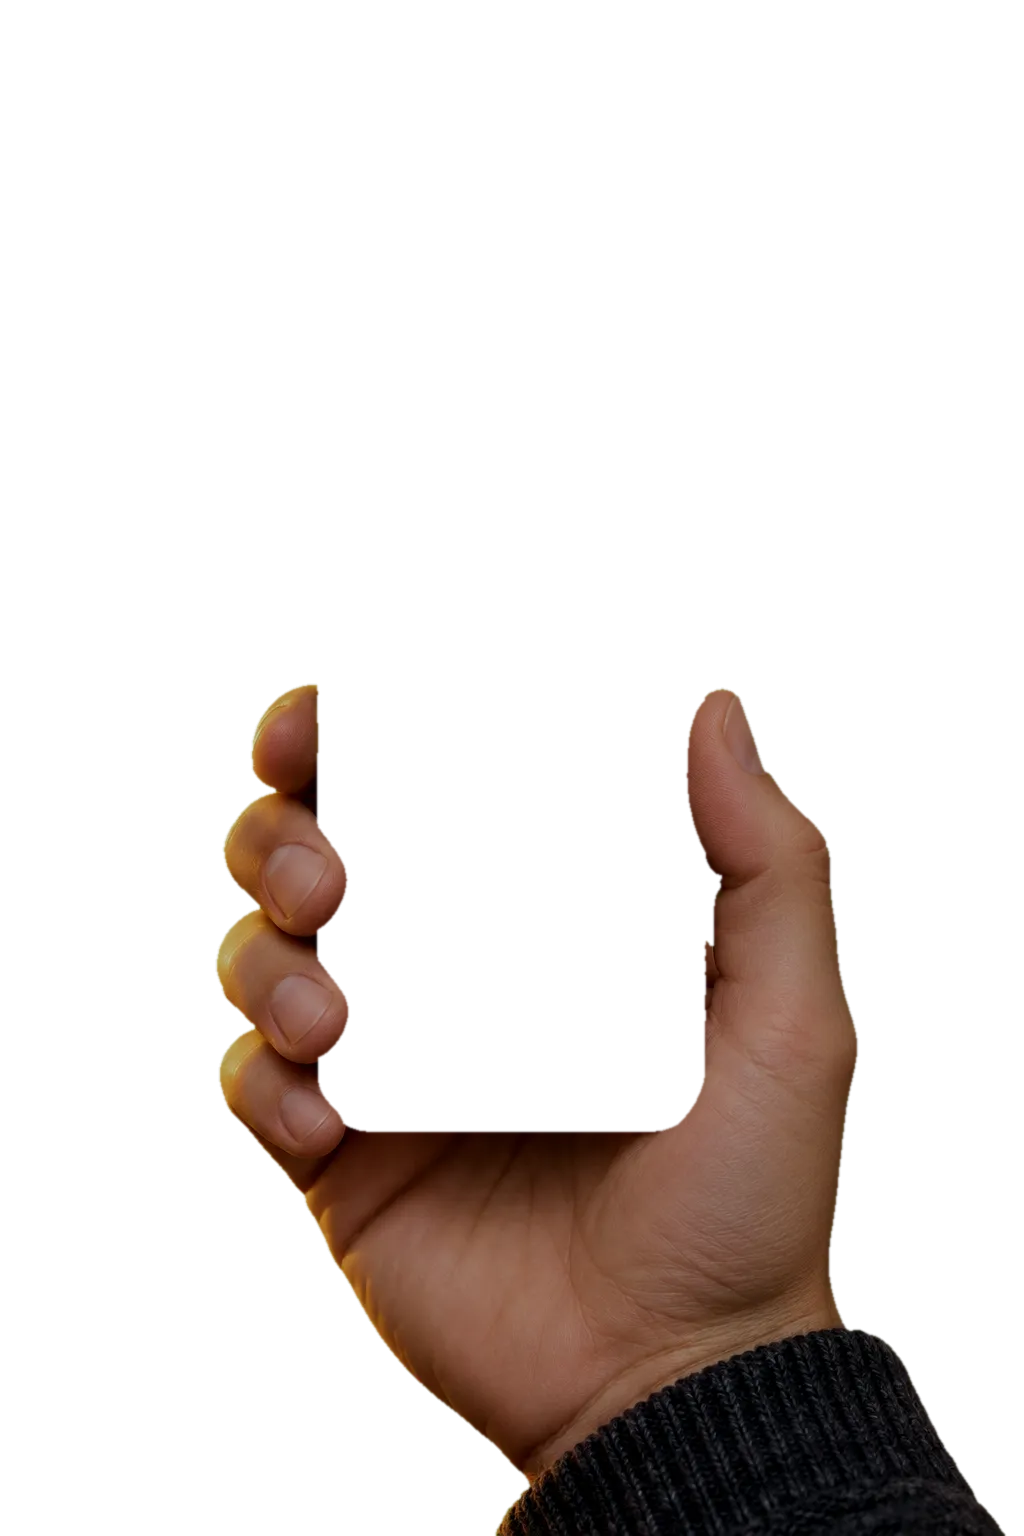
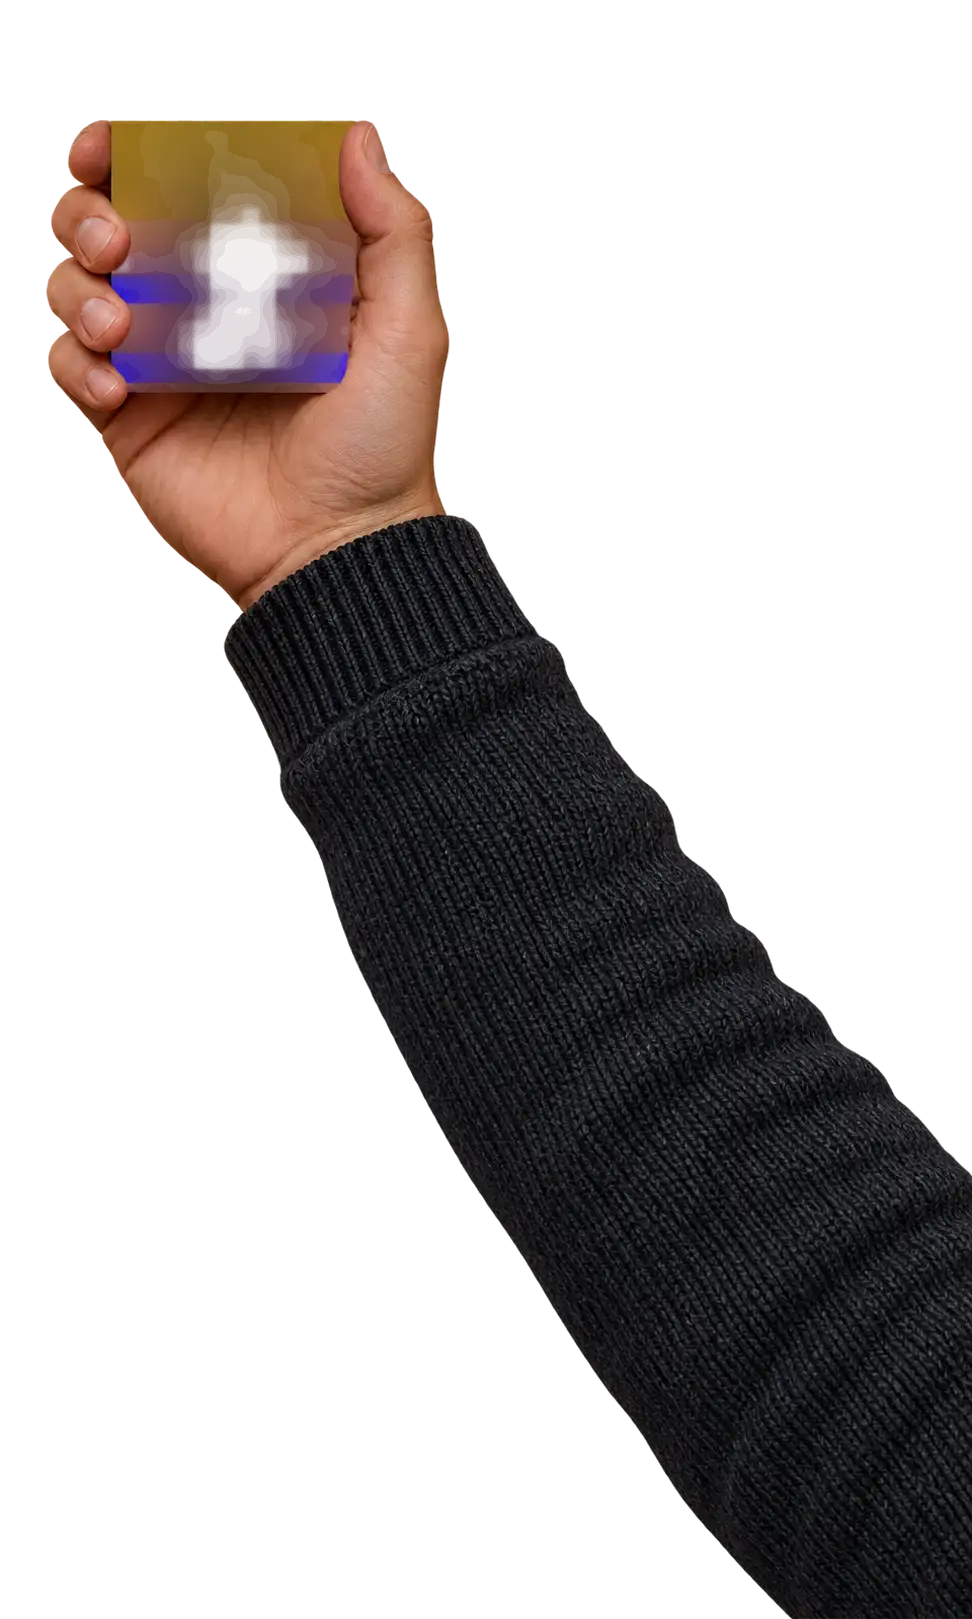
fix: extend remote sleeve to prevent exposed arm cutoff

diff --git a/goodwatch-webapp/app/ui/living-room/living-room.css b/goodwatch-webapp/app/ui/living-room/living-room.css
@@ -1037,10 +1037,10 @@ html[data-tv-transition] .tvr-bracket {
 }
 /* The hand photo around the Remote: HAND in room-layout.ts at the Remote's scale, the Remote's end in its palm. */
 .tvr[data-room="unmeasured"] .tvr-f-dhand {
-	left: calc(-262.17801 * var(--f-r));
-	top: calc(-311.298429 * var(--f-r));
-	width: calc(836.356021 * var(--f-r));
-	height: calc(1254.534031 * var(--f-r));
+	left: calc(-144.3 * var(--f-r));
+	top: calc(95.2 * var(--f-r));
+	width: calc(1263.6 * var(--f-r));
+	height: calc(2104.7 * var(--f-r));
 }
 .tvr[data-room="unmeasured"] .tvr-f-rscale {
 	transform: scale(tan(atan2(var(--f-r), 1px)));
@@ -1101,10 +1101,10 @@ html[data-tv-transition] .tvr-bracket {
 	}
 	/* The hand: its palm holds the body's end (388 units down), its fingers come round the body above it. */
 	.tvr[data-room="unmeasured"] .tvr-f-phand {
-		left: calc(var(--f-pl2) - 321 * 236 * var(--f-u) / 382);
-		top: calc(var(--f-pt) + 388 * var(--f-u) - 1128 * 236 * var(--f-u) / 382);
-		width: calc(1024 * 236 * var(--f-u) / 382);
-		height: calc(1536 * 236 * var(--f-u) / 382);
+		left: calc(var(--f-pl2) - 111 * 236 * var(--f-u) / 240);
+		top: calc(var(--f-pt) + 388 * var(--f-u) - 396 * 236 * var(--f-u) / 240);
+		width: calc(972 * 236 * var(--f-u) / 240);
+		height: calc(1619 * 236 * var(--f-u) / 240);
 	}
 }
 /* Upright (`layoutPhoneRoom`): the wall with the TV on it, stretched to the TV's height, and the sideboard. */

diff --git a/goodwatch-webapp/app/ui/living-room/tv/room-layout.ts b/goodwatch-webapp/app/ui/living-room/tv/room-layout.ts
@@ -28,14 +28,14 @@ export const PHONE_ROOM_PHOTO = {
 export const REMOTE_W = 312
 export const REMOTE_H = 610
 
-/** The hand photo (1024 x 1536) and the placeholder the Remote replaces in it. */
+/** The extended sleeve sprite and the Remote's registration box (its top is outside the cropped sprite). */
 export const HAND = {
-	w: 1024,
-	h: 1536,
-	x: 321,
-	y: 68,
-	pw: 382,
-	ph: 1060,
+	w: 972,
+	h: 1619,
+	x: 111,
+	y: -270,
+	pw: 240,
+	ph: 666,
 } as const
 
 /** The TV screens are drawn on a fixed canvas that scales to cover the TV. */
@@ -214,14 +214,14 @@ export const PHONE_REMOTE: Record<
 		fingers: number
 	}
 > = {
-	// The fingers: where the palm, under them, holds the body's end (HAND: the palm ends 448 of its px under them).
+	// The fingers: where the palm, under them, holds the body's end (HAND: the palm ends 281 of its px under them).
 	hand: {
 		w: 236,
 		keys: 288,
 		body: 388,
 		grow: 1.3,
 		share: 0.68,
-		fingers: 388 - (448 * 236) / 382,
+		fingers: 388 - (281 * 236) / 240,
 	},
 }
 
@@ -243,7 +243,7 @@ const CUT = 478
 /** The photo row that sits at the top of the scene. */
 const SKY = 30
 /** In the hand photo the fingers begin this far under the top of the Remote's place, and the palm ends there. */
-const FINGERS = 612
+const FINGERS = 385
 
 export type PhoneRoomLayout = {
 	form: PhoneRemoteForm

diff --git a/goodwatch-webapp/app/ui/living-room/room.ts b/goodwatch-webapp/app/ui/living-room/room.ts
@@ -34,8 +34,8 @@ export const HAND_IMAGE = { avif: handAvif, webp: handWebp }
 /** The Remote's natural width. */
 export const REMOTE_W = 312
 
-/** The hand photo (1024 x 1536) and the placeholder the Remote replaces in it. */
-export const HAND = { w: 1024, h: 1536, x: 321, y: 68, pw: 382, ph: 1060 }
+/** The extended sleeve sprite and the Remote's registration box (its top is outside the cropped sprite). */
+export const HAND = { w: 972, h: 1619, x: 111, y: -270, pw: 240, ph: 666 }
 
 /**
  * The Remote's length: its keys and a short grip with the logo (the owner, 2026-10-22: no long empty body). It is

diff --git a/goodwatch-webapp/app/ui/living-room/tv/room-render.test.ts b/goodwatch-webapp/app/ui/living-room/tv/room-render.test.ts
@@ -194,7 +194,7 @@ test("living-room.css's first paint seats the room where the layouts do, at ever
 	)
 	assert.match(
 		css,
-		/top: calc\(var\(--f-pt\) \+ 388 \* var\(--f-u\) - 1128 \* 236 \* var\(--f-u\) \/ 382\);/,
+		/top: calc\(var\(--f-pt\) \+ 388 \* var\(--f-u\) - 396 \* 236 \* var\(--f-u\) \/ 240\);/,
 	)
 	assert.match(css, /--f-cw: 480px;/)
 	assert.match(css, /width: var\(--f-cw\);\s*height: 270px;/)
